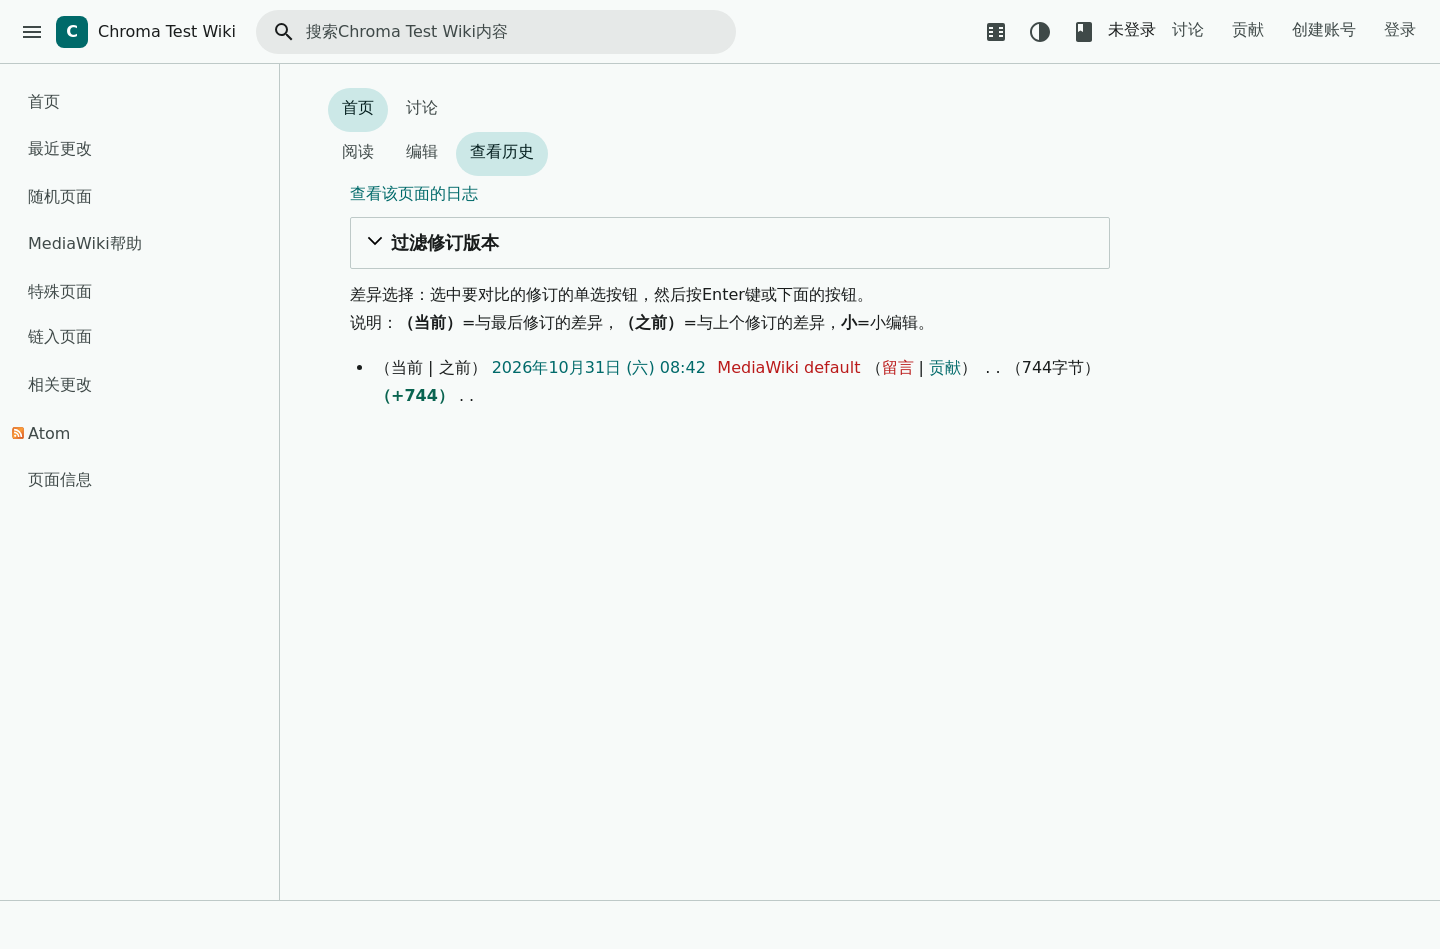
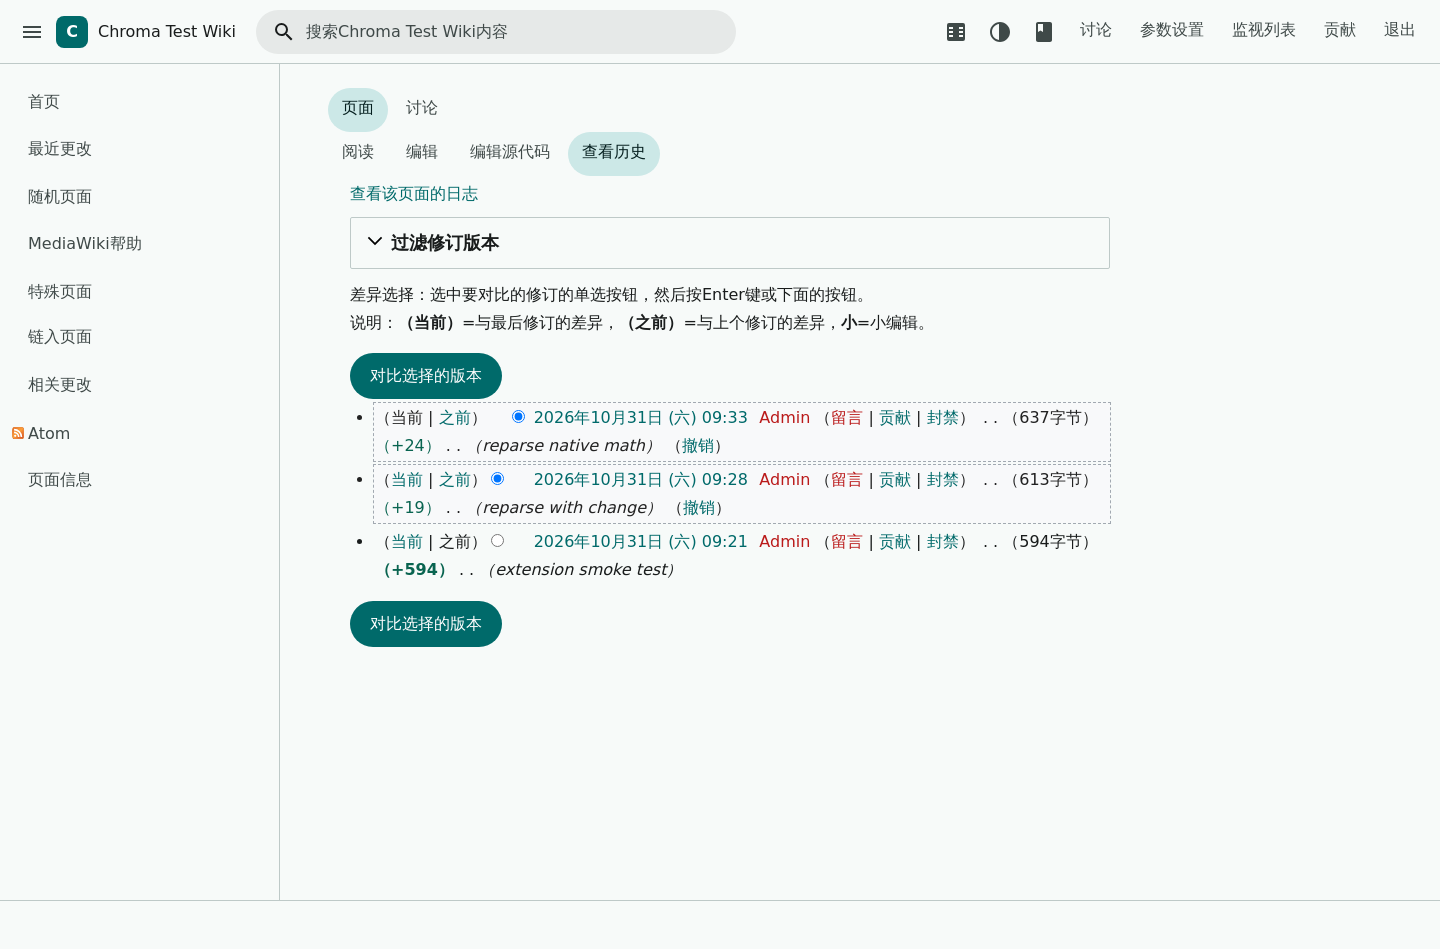
feat: Tier 1 extension screenshots and harness notes

diff --git a/resources/styles/extensions.css b/resources/styles/extensions.css
@@ -1,0 +1,128 @@
+/* Chroma extension overrides (Tier 1). */
+
+/* We render our own TOC; hide the core in-content TOC. */
+.chroma-content #toc,
+.chroma-content .toc,
+.chroma-content .mw-toc { display: none !important; }
+
+/* ---------- WikiEditor ---------- */
+.wikiEditor-ui-toolbar {
+	background: var(--md-sys-color-surface-container);
+	border: 1px solid var(--md-sys-color-outline-variant);
+	border-radius: var(--md-sys-shape-corner-large) var(--md-sys-shape-corner-large) 0 0;
+	box-shadow: none;
+}
+.wikiEditor-ui-toolbar .section,
+.wikiEditor-ui-toolbar .booklet { background: transparent; }
+.wikiEditor-ui-toolbar .tool:hover,
+.wikiEditor-ui-toolbar .tool:focus { background: var(--md-sys-color-surface-container-high); }
+.wikiEditor-ui-toolbar .tool.current { background: var(--md-sys-color-secondary-container); }
+.wikiEditor-ui-toolbar .tab.current { border-color: var(--md-sys-color-primary); }
+.wikiEditor-ui-text textarea,
+#wpTextbox1 {
+	background: var(--md-sys-color-surface-container-low);
+	color: var(--md-sys-color-on-surface);
+	border: 1px solid var(--md-sys-color-outline-variant);
+	border-radius: 0 0 var(--md-sys-shape-corner-large) var(--md-sys-shape-corner-large);
+	font-family: var(--md-sys-typescale-font-family-mono);
+}
+.wikiEditor-ui-toolbar .oo-ui-iconElement-icon { opacity: .85; }
+
+/* ---------- OOUI ---------- */
+.oo-ui-window,
+.oo-ui-dialog,
+.oo-ui-messageDialog-content { border-radius: var(--md-sys-shape-corner-extra-large); }
+.oo-ui-windowManager-modal > .oo-ui-dialog > .oo-ui-window-frame { border-radius: var(--md-sys-shape-corner-extra-large); }
+.oo-ui-buttonElement-framed > .oo-ui-buttonElement-button {
+	border-radius: var(--md-sys-shape-corner-full);
+	border-color: var(--md-sys-color-outline);
+}
+.oo-ui-buttonElement-framed.oo-ui-flaggedElement-primary > .oo-ui-buttonElement-button {
+	background: var(--md-sys-color-primary);
+	border-color: var(--md-sys-color-primary);
+	color: var(--md-sys-color-on-primary);
+}
+.oo-ui-buttonElement-framed.oo-ui-flaggedElement-primary > .oo-ui-buttonElement-button:hover {
+	background: var(--md-sys-color-primary);
+	filter: brightness(1.08);
+}
+.oo-ui-textInputWidget > .oo-ui-inputWidget-input,
+.oo-ui-dropdownWidget-handle {
+	background: var(--md-sys-color-surface-container-low);
+	color: var(--md-sys-color-on-surface);
+	border-color: var(--md-sys-color-outline-variant);
+	border-radius: var(--md-sys-shape-corner-small);
+}
+.oo-ui-menuSelectWidget,
+.oo-ui-dropdownWidget-menu {
+	background: var(--md-sys-color-surface-container);
+	border-radius: var(--md-sys-shape-corner-medium);
+	box-shadow: var(--md-sys-elevation-2);
+}
+.oo-ui-menuOptionWidget.oo-ui-optionWidget-selected { background: var(--md-sys-color-secondary-container); }
+.oo-ui-tabOptionWidget.oo-ui-optionWidget-selected { border-color: var(--md-sys-color-primary); }
+.oo-ui-toolbar-bar { background: var(--md-sys-color-surface-container); }
+
+/* ---------- Cite ---------- */
+.mw-references-wrap,
+ol.references { font-size: var(--md-sys-typescale-body-small-size); }
+sup.reference a { color: var(--md-sys-color-primary); }
+.mw-cite-backlink { font-size: .9em; }
+
+/* ---------- Math ---------- */
+.mwe-math-element {
+	display: inline-block;
+	padding: 4px 8px;
+	border-radius: var(--md-sys-shape-corner-small);
+	background: var(--md-sys-color-surface-container-low);
+}
+.mwe-math-fallback-image-inline { vertical-align: middle; }
+
+/* ---------- SyntaxHighlight / Pygments ---------- */
+.mw-highlight {
+	background: var(--md-sys-color-surface-container-highest) !important;
+	border-radius: var(--md-sys-shape-corner-medium);
+	padding: 12px 16px;
+	overflow-x: auto;
+}
+
+/* ---------- InputBox ---------- */
+.mw-inputbox input[type="text"],
+.mw-inputbox input[type="search"] {
+	background: var(--md-sys-color-surface-container-low);
+	border: 1px solid var(--md-sys-color-outline-variant);
+	border-radius: var(--md-sys-shape-corner-small);
+	padding: 8px 12px;
+	color: var(--md-sys-color-on-surface);
+}
+.mw-inputbox input[type="submit"],
+.mw-inputbox button {
+	background: var(--md-sys-color-primary);
+	color: var(--md-sys-color-on-primary);
+	border: 0;
+	border-radius: var(--md-sys-shape-corner-full);
+	padding: 8px 18px;
+}
+
+/* ---------- CategoryTree ---------- */
+.CategoryTreeItem a { color: var(--md-sys-color-primary); }
+.CategoryTreeToggle { color: var(--md-sys-color-on-surface-variant); }
+
+/* ---------- VisualEditor ---------- */
+.ve-ui-surface { background: var(--md-sys-color-surface); }
+.ve-init-mw-desktopArticleTarget-toolbar .oo-ui-toolbar-bar,
+.ve-ui-toolbar .oo-ui-toolbar-bar { background: var(--md-sys-color-surface-container); }
+.ve-ui-toolbar .oo-ui-tool:hover { background: var(--md-sys-color-surface-container-high); }
+.ve-ui-toolbar .oo-ui-tool.oo-ui-widget-enabled.oo-ui-tool-active { background: var(--md-sys-color-secondary-container); }
+.ve-ui-targetWidget { border-radius: var(--md-sys-shape-corner-medium); }
+
+/* ---------- DiscussionTools ---------- */
+.ext-discussiontools-ui-replyWidget,
+.ext-discussiontools-ui-newTopicWidget { border-radius: var(--md-sys-shape-corner-large); }
+
+/* ---------- Echo ---------- */
+.mw-echo-ui-notificationBadgeButton .oo-ui-buttonElement-button { border-radius: var(--md-sys-shape-corner-full); }
+.mw-echo-ui-notificationItemWidget { border-radius: var(--md-sys-shape-corner-medium); }
+
+/* ---------- ConfirmEdit ---------- */
+.mw-confirmedit-captcha { border-radius: var(--md-sys-shape-corner-medium); }

diff --git a/docs/COMPATIBILITY.md b/docs/COMPATIBILITY.md
@@ -3,6 +3,34 @@
 Status legend: **A** functional, **B** visually consistent, **C** pixel parity
 (not promised for third-party UI). `planned` = not yet implemented in v0.1.
 
+## Harness result — MediaWiki 1.46.0 (2026-10-31)
+
+The 1.46.0 harness has the following Tier 1 extensions installed and loading:
+AbuseFilter (disabled, see below), CategoryTree, Cite, CodeEditor, ConfirmEdit,
+DiscussionTools, Echo, Gadgets, ImageMap, InputBox, Linter, LoginNotify, Math,
+MultimediaViewer, Nuke, OATHAuth, PageImages, ParserFunctions, PdfHandler, Poem,
+ReplaceText, Scribunto, SecureLinkFixer, SpamBlacklist, SyntaxHighlight_GeSHi,
+TemplateData, TextExtracts, Thanks, TitleBlacklist, VisualEditor, WikiEditor.
+
+Verified pages: article with `<ref>`, `<math>`, `<syntaxhighlight>`, `<poem>`,
+`<inputbox>`, `<categorytree>`; wikitext editor with WikiEditor toolbar;
+VisualEditor; history; Special:Version; Special:Notifications; Special:LintErrors.
+
+Known harness issues (not skin defects):
+
+- VisualEditor needs two extra pieces that are git submodules/foreign resources in
+  the upstream repo: `lib/ve` (VisualEditor core) and `lib/spark-md5/spark-md5.js`.
+- DiscussionTools requires VisualEditor; both load together.
+- Math renders with `$wgMathValidModes = [ 'native' ]` in this local harness
+  (MathML mode needs a RESTBase/Mathoid service).
+- AbuseFilter is disabled because its `Wikimedia\Equivset\Equivset` composer
+  dependency is not present in the source install; install extension composer
+  dependencies to test it.
+- Interwiki is part of MediaWiki core since 1.44; the standalone extension is a
+  stub and must not be loaded.
+- CheckUser and TemplateStyles placeholders from the core source archive are not
+  installed; they are not needed for the skin harness.
+
 ## Tier 1 — in scope for v0.1
 
 MediaWiki 1.43 bundled extensions (33):

diff --git a/docs/COMPAT-MATRIX.md b/docs/COMPAT-MATRIX.md
@@ -42,5 +42,6 @@ version-specific workarounds into a single branch.
   - Footer "places" links are empty on a default wiki (only shown when configured).
   - TOC renders top-level sections only; nested sections land in P4.
   - MobileFrontend not installed in this harness; responsive layout checked directly.
-  - Bundled extensions are git submodules and were not installed in the harness yet
-    (Tier 1 compatibility testing is P7).
+  - Tier 1 extensions are installed from GitHub release branches; see
+    `docs/COMPATIBILITY.md` for the exact list and known harness issues.
+  - Math is tested with `native` mode (MathML mode needs RESTBase/Mathoid).
